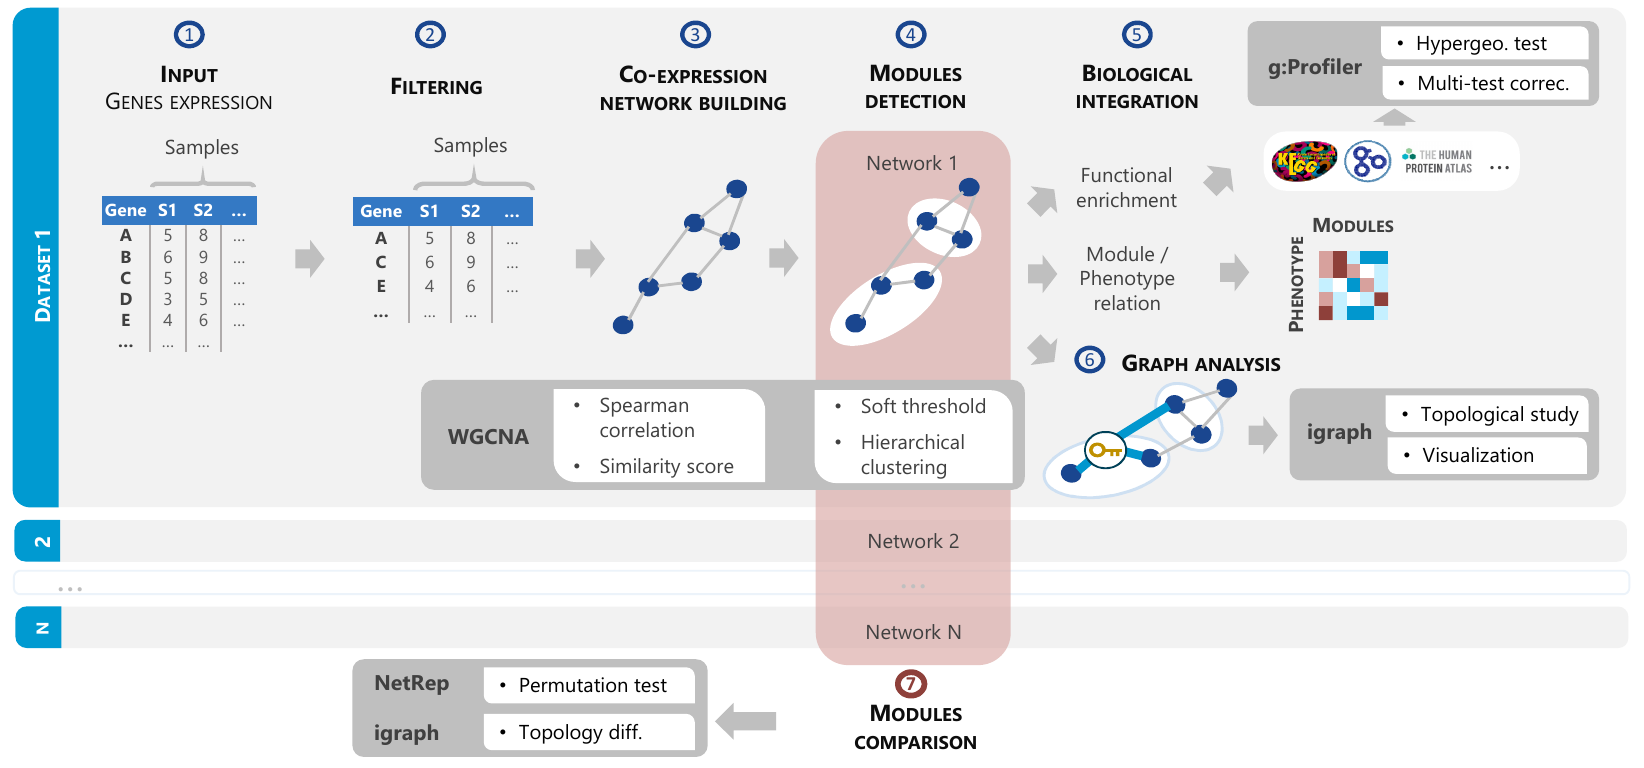
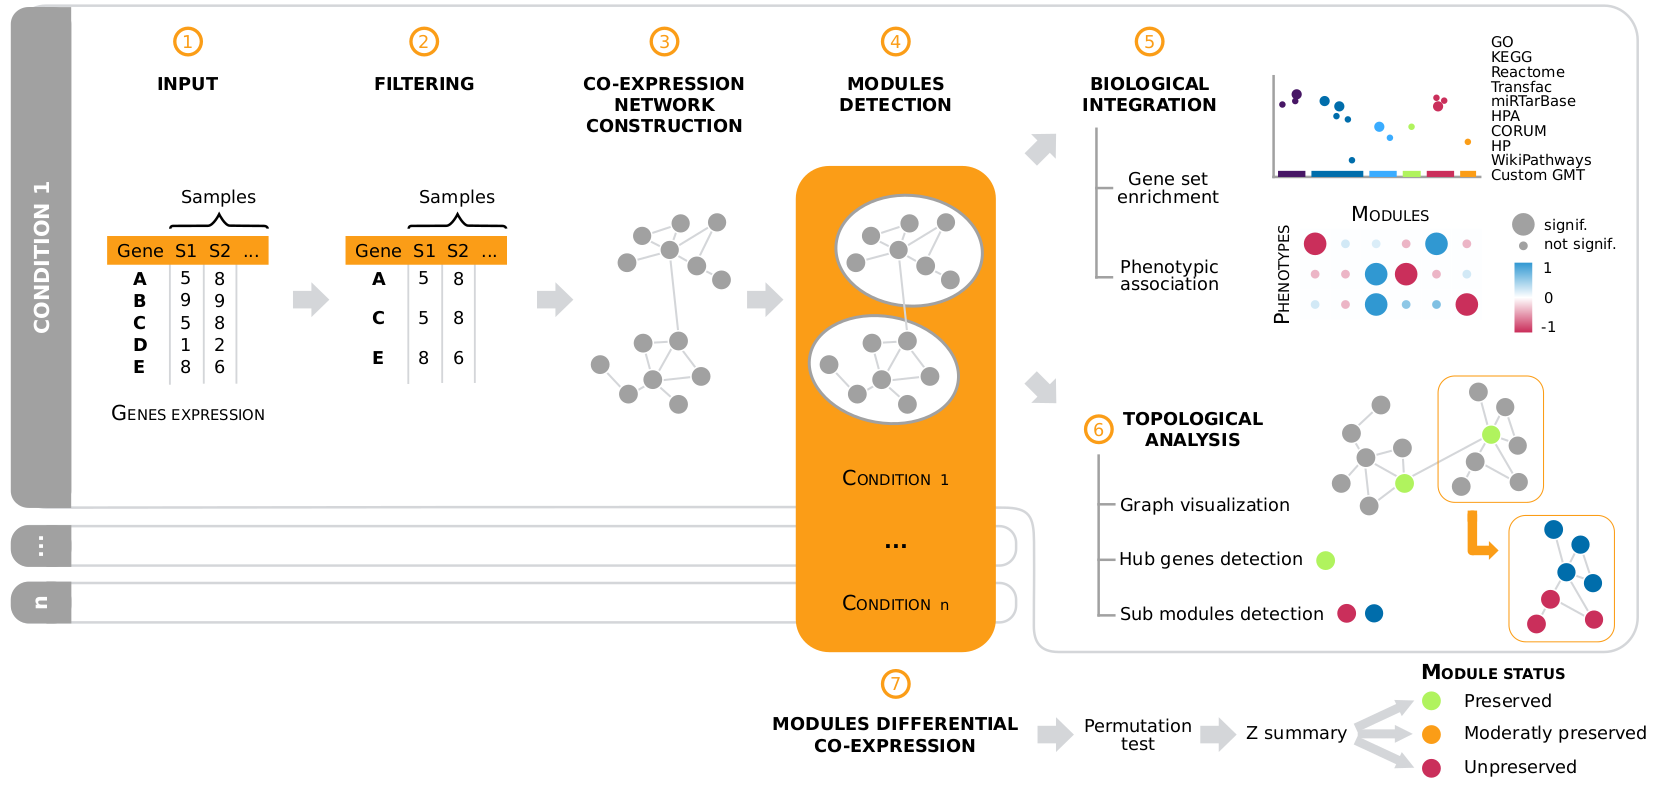
Updating pipelien figure and availability for Bioc

diff --git a/README.md b/README.md
@@ -27,7 +27,7 @@ if (!requireNamespace("devtools", quietly=TRUE))
 
 Installation can either be from:
 
-1. ~~the official version of the last Bioconductor release (recommended).~~ Will be available with Bioconductor 3.12
+1. the official version of the last Bioconductor release (recommended).
 ```R
 # BiocManager::install("GWENA") # Not yet available
 ```
